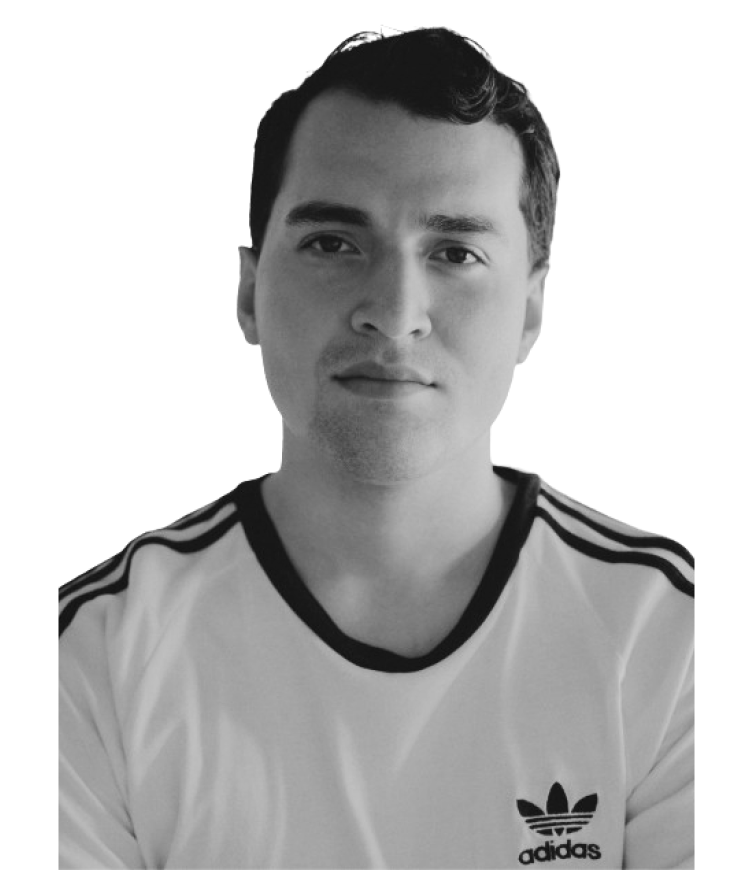
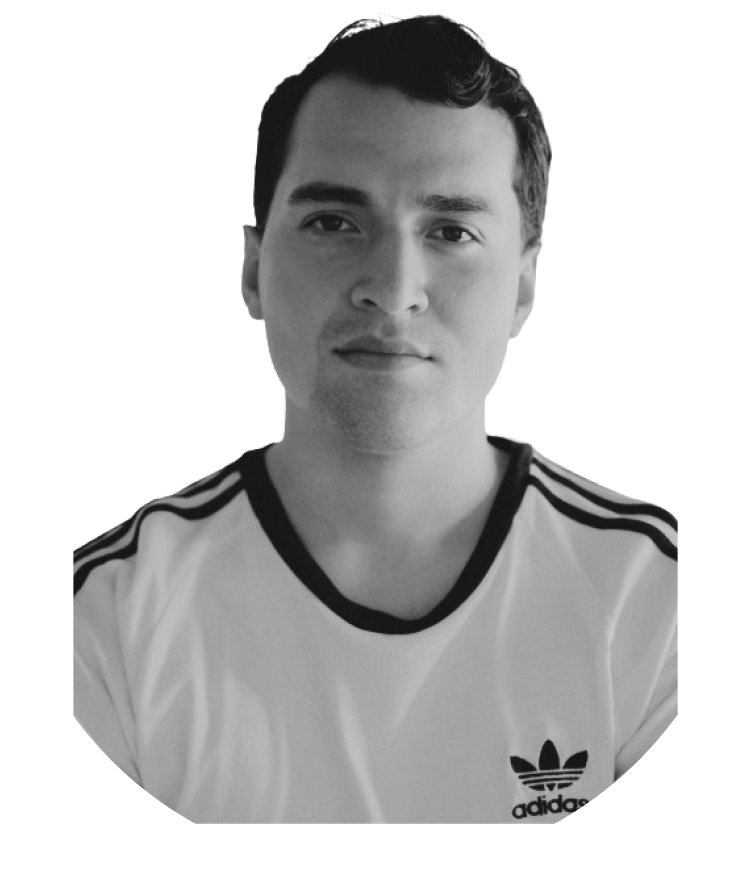
home finished in mobile

diff --git a/src/containers/Home/Home.scss b/src/containers/Home/Home.scss
@@ -7,7 +7,8 @@
     &-top{
         background-color: $color-white;
         width: 100%;
-        height: 90vh;
+        min-height: 90vh;
+        height: auto;
         padding: 0 $padding-tablet;
 
         display: flex;
@@ -17,28 +18,86 @@
         align-content: center;
         align-items: center;
 
-        padding-top: 60px;
+        padding-top: 80px;
 
         @include breakpoint(laptop){
             padding: 0 $padding-web;
         }
-
-        position: relative;
     }
 
     &-imgContainer{
         width: 280px;
         height: 280px;
 
-        background-color: $color-valeria-100;
-
-        border-radius: 50%;
-
         margin-bottom: 40px;
+
+        position: relative;
 
         @include breakpoint(laptop){
             margin: 0;
         }
+    }
+
+    &-gradient{
+        width: 100%;
+        height: 100%;
+
+        background: linear-gradient(180deg, rgba($color-valeria-100, 0.05) 0%, rgba($color-valeria-100, 0.3) 100%);
+        transform: rotate(15deg);
+
+        border-radius: 50%;
+    }
+
+    &-img{
+        width: 100%;
+
+        position: absolute;
+        bottom: 0;
+    }
+
+    &-roleTag{
+        position: absolute;
+
+        background: linear-gradient(45deg, $color-white 0%, rgba($color-white, 0.5) 100%);
+        border-radius: 30px;
+
+        padding: 10px 20px;
+        width: auto;
+        height: auto;
+
+        display: flex;
+        flex-direction: column;
+        justify-content: center;
+        align-content: center;
+        align-items: center;
+        
+        >h4{
+            color: $color-black;
+            font-size: 16px;
+            font-weight: 700;
+            line-height: 110%;
+            font-family: $font-title;
+
+            margin-bottom: 4px;
+        }
+
+        >p{
+            color: $color-valeria-100;
+            font-size: 12px;
+            font-weight: 400;
+            line-height: 110%;
+            font-family: $font-text;
+        }
+    }
+
+    .tag1{
+        bottom: 10px;
+        left: 10px;
+    }
+
+    .tag2{
+        top: 50%;
+        right: -10%;
     }
 
     &-title{
@@ -46,7 +105,7 @@
         font-size: 24px;
         color: $color-black;
         font-weight: 700;
-        line-height: 160%;
+        line-height: 140%;
 
         width: 100%;
         text-align: center;

diff --git a/src/components/WebMenu/WebMenu.jsx b/src/components/WebMenu/WebMenu.jsx
@@ -17,12 +17,20 @@ const WebMenu = () => {
         }
     }, []);
 
-    function handleType() {
+    const handleType = () => {
         let value = "mobile";
         if (window.innerWidth > 500) {
             value = "web";
         }
         setMenu(value);
+    }
+
+    const handleState = () => {
+        if(menu === "web"){
+            setState(false);
+            return;
+        }
+        setState(!state);
     }
 
     return (
@@ -32,27 +40,27 @@ const WebMenu = () => {
                     {state ?
                         <div className="WebMenu-mobileMenu">
                             <ProfileLinks />
-                            <NavMenu />
+                            <NavMenu handleState={handleState} />
                         </div>
                         : ''}
                     <div className="WebMenu-mobileContent">
-                        <Link to="/" className="WebMenu-mobileLogo">
+                        <Link to="/" className="WebMenu-mobileLogo" onClick={()=> {setState(false)}}>
                             <img src="./svg/logo.svg" alt="Logo icon" />
                         </Link>
                         <h1 className="WebMenu-mobileTitle">Santiagortizgue</h1>
-                        <div className="WebMenu-iconContainer" onClick={() => { setState(!state) }}>
+                        <div className="WebMenu-iconContainer" onClick={handleState}>
                         </div>
                     </div>
                 </div>
                 :
                 <div className="WebMenu">
                     <div className="WebMenu-context">
-                        <Link to="/" className="WebMenu-Logo">
+                        <Link to="/" className="WebMenu-Logo" onClick={()=> {setState(false)}}>
                             <img src="./svg/logo.svg" alt="Logo icon" />
                         </Link>
                         <h1 className="WebMenu-title">Santiagortizgue</h1>
                     </div>
-                    <NavMenu />
+                    <NavMenu handleState={handleState} />
                 </div>
             }
         </>

diff --git a/src/containers/About/About.scss b/src/containers/About/About.scss
@@ -1,0 +1,99 @@
+@import '../../assets/variables.scss';
+
+.About{
+    width: 100%;
+    height: auto;
+
+    &-top{
+        background-color: $color-white;
+        width: 100%;
+        min-height: 90vh;
+        height: auto;
+        padding: 40px $padding-tablet;
+
+        display: flex;
+        flex-direction: column;
+        flex-wrap: nowrap;
+        justify-content: flex-start;
+        align-content: center;
+        align-items: flex-start;
+
+        @include breakpoint(laptop){
+            padding: 0 $padding-web;
+        }
+    }
+
+    &-img{
+        width: 100%;
+        margin-bottom: 40px;
+
+        border-radius: 8px;
+
+        @include breakpoint(laptop){
+            margin: 0;
+        }
+    }
+
+    &-title{
+        font-size: 28px;
+        line-height: 120%;
+        color: $color-black;
+        font-family: $font-title;
+        font-weight: 700;
+
+        margin-bottom: 20px;
+    }
+
+    &-text{
+        color: $color-black;
+        font-family: $font-text;
+        font-weight: 400;
+        font-size: 16px;
+        line-height: 160%;
+        text-align: justify;
+
+        margin-bottom: 40px;
+
+        >span{
+            color: $color-valeria-100;
+            font-weight: 600;
+        }
+    }
+
+    &-location{
+        width: auto;
+        display: flex;
+        flex-direction: row;
+        justify-content: flex-start;
+        align-content: center;
+        align-items: center;
+
+        >img{
+            width: 24px;
+            margin-right: 16px;
+        }
+
+        >p{
+            font-size: 18px;
+            line-height: 120%;
+            color: $color-black;
+            font-family: $font-text;
+            font-weight: 400;
+        }
+    }
+
+    &-sliders{
+        background-color: $color-black;
+        width: 100%;
+        height: auto;
+
+        display: flex;
+        flex-direction: column;
+
+        padding: 40px $padding-tablet;
+    }
+
+    .AboutSlider:first-of-type{
+        margin-bottom: 40px;
+    }
+}

diff --git a/src/containers/About/About.jsx b/src/containers/About/About.jsx
@@ -1,9 +1,28 @@
 import React from 'react';
+import AboutSlider from '../../components/AboutSlider/AboutSlider';
+import ContextTag from '../../components/ContextTag/ContextTag';
+import SocialMedia from '../../components/SocialMedia/SocialMedia';
+import "./About.scss"
 
 const About = () => {
     return (
         <div className="About">
-  
+            <div className="About-top">
+                <img className="About-img" src="./jpg/about.jpg" alt="About bio profile" />
+                <h2 className="About-title">About me</h2>
+                <p className="About-text">I’m Santiago Ortiz Guevara, a 23 years old Colombian <span>Designer</span>. I’ve worked with <strong>user interface</strong>, <strong>user experience</strong> and <strong>front-end development</strong> on multiple platforms. <br/><br/> My creativity allows me to build experiences and interfaces, based on human feelings and needs. I'm always learning new methodologies, software and strategies to develop these experiences.</p>
+                <div className="About-location">
+                    <img src="./svg/location.svg" alt="Location icon" />
+                    <p>Cali, Colombia</p>
+                </div>
+            </div>
+            <SocialMedia/>
+            <div className="About-sliders">
+                <ContextTag text="Talents" />
+                <AboutSlider />
+                <ContextTag text="Experience & Skills" />
+                <AboutSlider />
+            </div>
         </div>
     );
 }

diff --git a/src/containers/Home/Home.jsx b/src/containers/Home/Home.jsx
@@ -31,7 +31,15 @@ const Home = () => {
       <div className="Home-top">
         <div className="Home-imgContainer">
           <div className="Home-gradient"></div>
-          <img src="" alt="Profile pic" />
+          <img className="Home-img" src="./png/profile.png" alt="Profile pic" />
+          <div className="Home-roleTag tag2">
+            <h4>Front-End</h4>
+            <p>Developer</p>
+          </div>
+          <div className="Home-roleTag tag1">
+            <h4>UI</h4>
+            <p>Designer</p>
+          </div>
         </div>
         <h2 className="Home-title">Hi, I’m <span>Santiago</span>. My creativity allows me to build experiences & interfaces.</h2>
         <Button onClick={handleContact} text="Contact me"/>

diff --git a/src/components/NavMenu/NavMenu.jsx b/src/components/NavMenu/NavMenu.jsx
@@ -4,14 +4,18 @@ import AppContext from '../../context/AppContext';
 
 import './NavMenu.scss'
 
-const NavMenu = () => {
+const NavMenu = ({handleState}) => {
     const { state } = useContext(AppContext);
     const { pages } = state;
+
+    const handleClick = () => {
+        handleState();
+    }
 
     return (
         <div className="NavMenu">
             {pages.map((page) => (
-                <Link key={page.id} to={page.route} className="NavMenu-item">
+                <Link key={page.id} to={page.route} onClick={handleClick} className="NavMenu-item">
                     <h3>
                         {page.name}
                     </h3>

diff --git a/src/hooks/useInitialState.js b/src/hooks/useInitialState.js
@@ -26,7 +26,6 @@ const useInitialState = () => {
         try {
             const response = await axios(`${API}/projects/${id}`);
             setRecent(response.data);
-            console.log(response.data);
         } catch (error) {
             console.log("Error getting the recent project", error.message);
         }

diff --git a/src/containers/Portfolio/Portfolio.jsx b/src/containers/Portfolio/Portfolio.jsx
@@ -2,7 +2,7 @@ import React, { useContext } from 'react';
 import AppContext from '../../context/AppContext';
 
 const Portfolio = () => {
-    const { state } = useContext(AppContext);
+    const { projects } = useContext(AppContext);
 
     return (
         <div className="Portfolio">

diff --git a/src/components/AboutSlider/AboutSlider.jsx b/src/components/AboutSlider/AboutSlider.jsx
@@ -1,0 +1,12 @@
+import React from 'react';
+import './AboutSlider.scss';
+
+const AboutSlider = () => {
+    return (
+        <div className="AboutSlider">
+            
+        </div>
+    );
+}
+
+export default AboutSlider;

diff --git a/src/components/AboutSlider/AboutSlider.scss b/src/components/AboutSlider/AboutSlider.scss
@@ -1,0 +1,8 @@
+@import '../../assets/variables.scss';
+
+.AboutSlider{
+    width: 100%;
+    height: 400px;
+    background-color: $color-white;
+    border-radius: 8px;
+}
